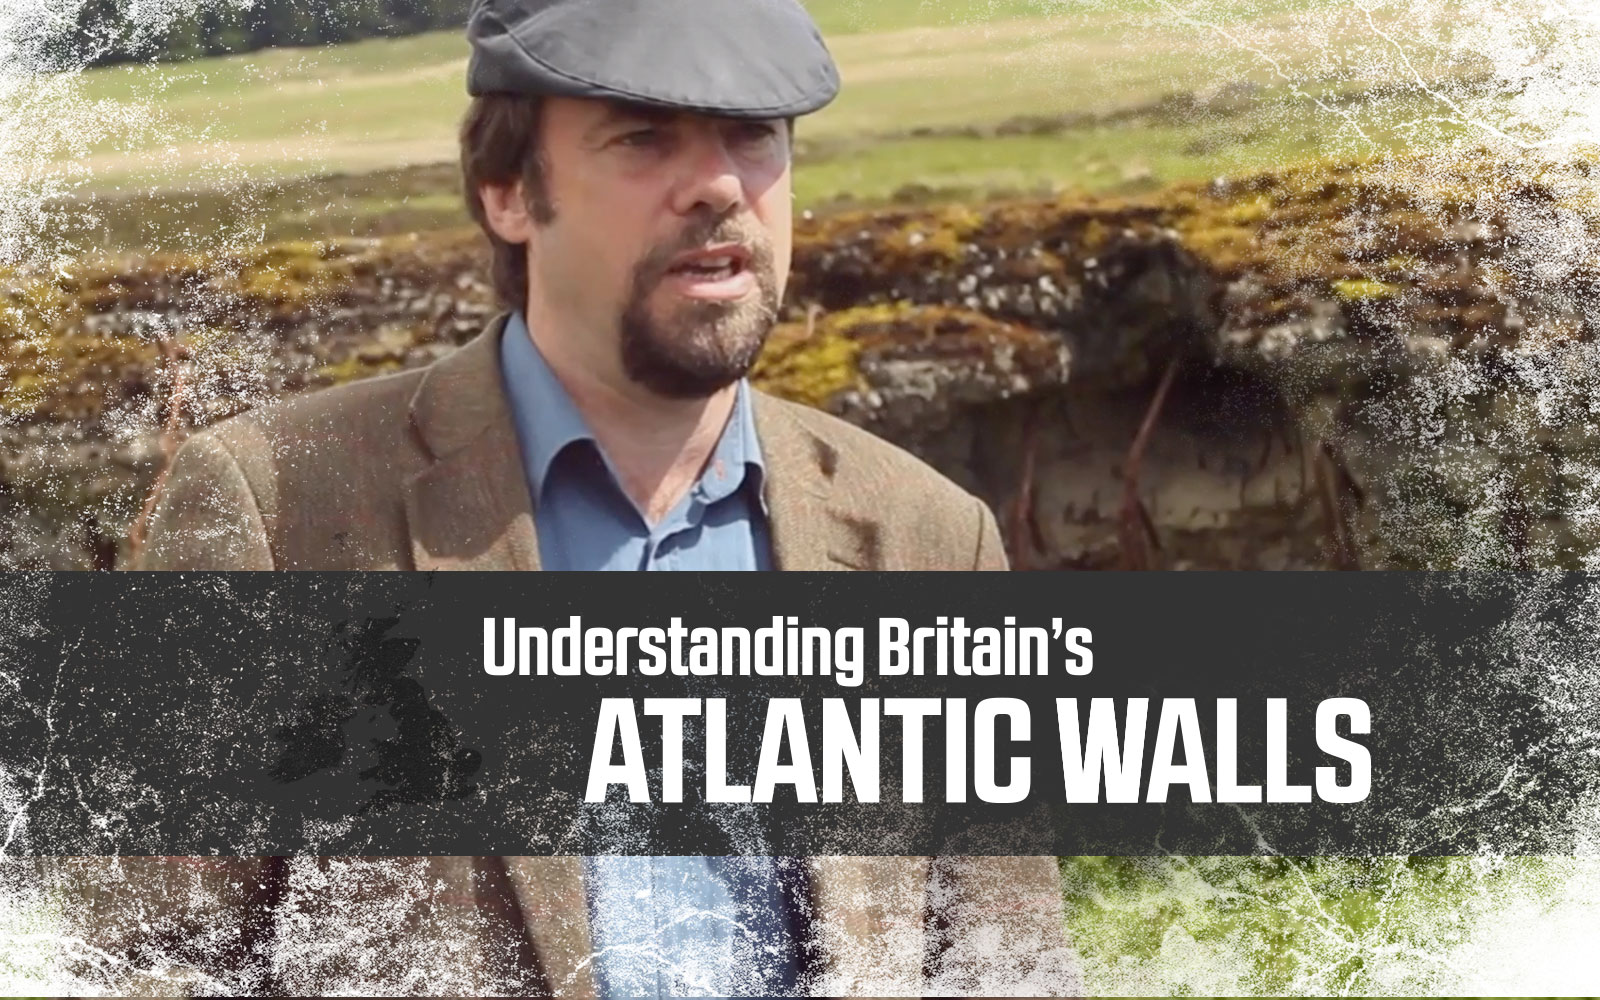
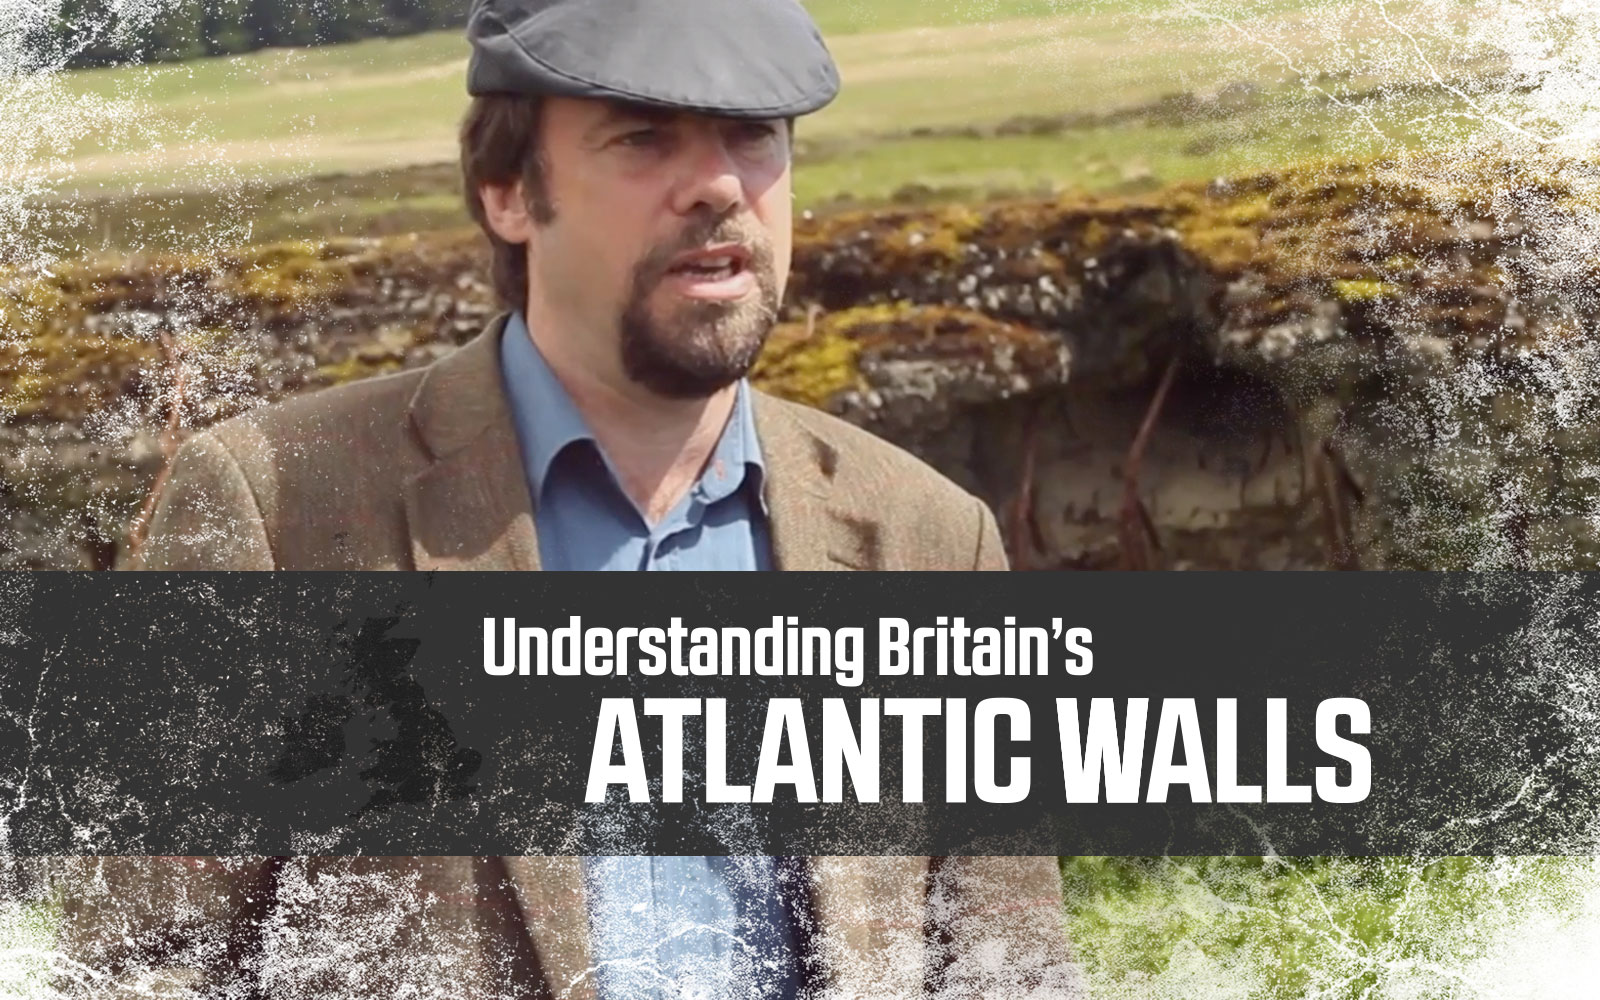
Deploy from Forestry.io

Changed region(s): [[0.0, 0.0, 1.0, 1.0], [0.2188, 0.558, 0.25, 0.589]]

diff --git a/work/dunblane-museum-atlantic-walls/index.html b/work/dunblane-museum-atlantic-walls/index.html
@@ -185,7 +185,7 @@
 				<div class="pb3 pb0-ns">
   
   <div class="w-100">
-    <img src="/uploads/AtlanticWalls-CaseStudy-Tony-1024x640_2019-1.jpg" alt="">
+    <img src="/uploads/AtlanticWalls-CaseStudy-Tony-1024x640_2019.jpg" alt="">
     <p>
   </div>
   
